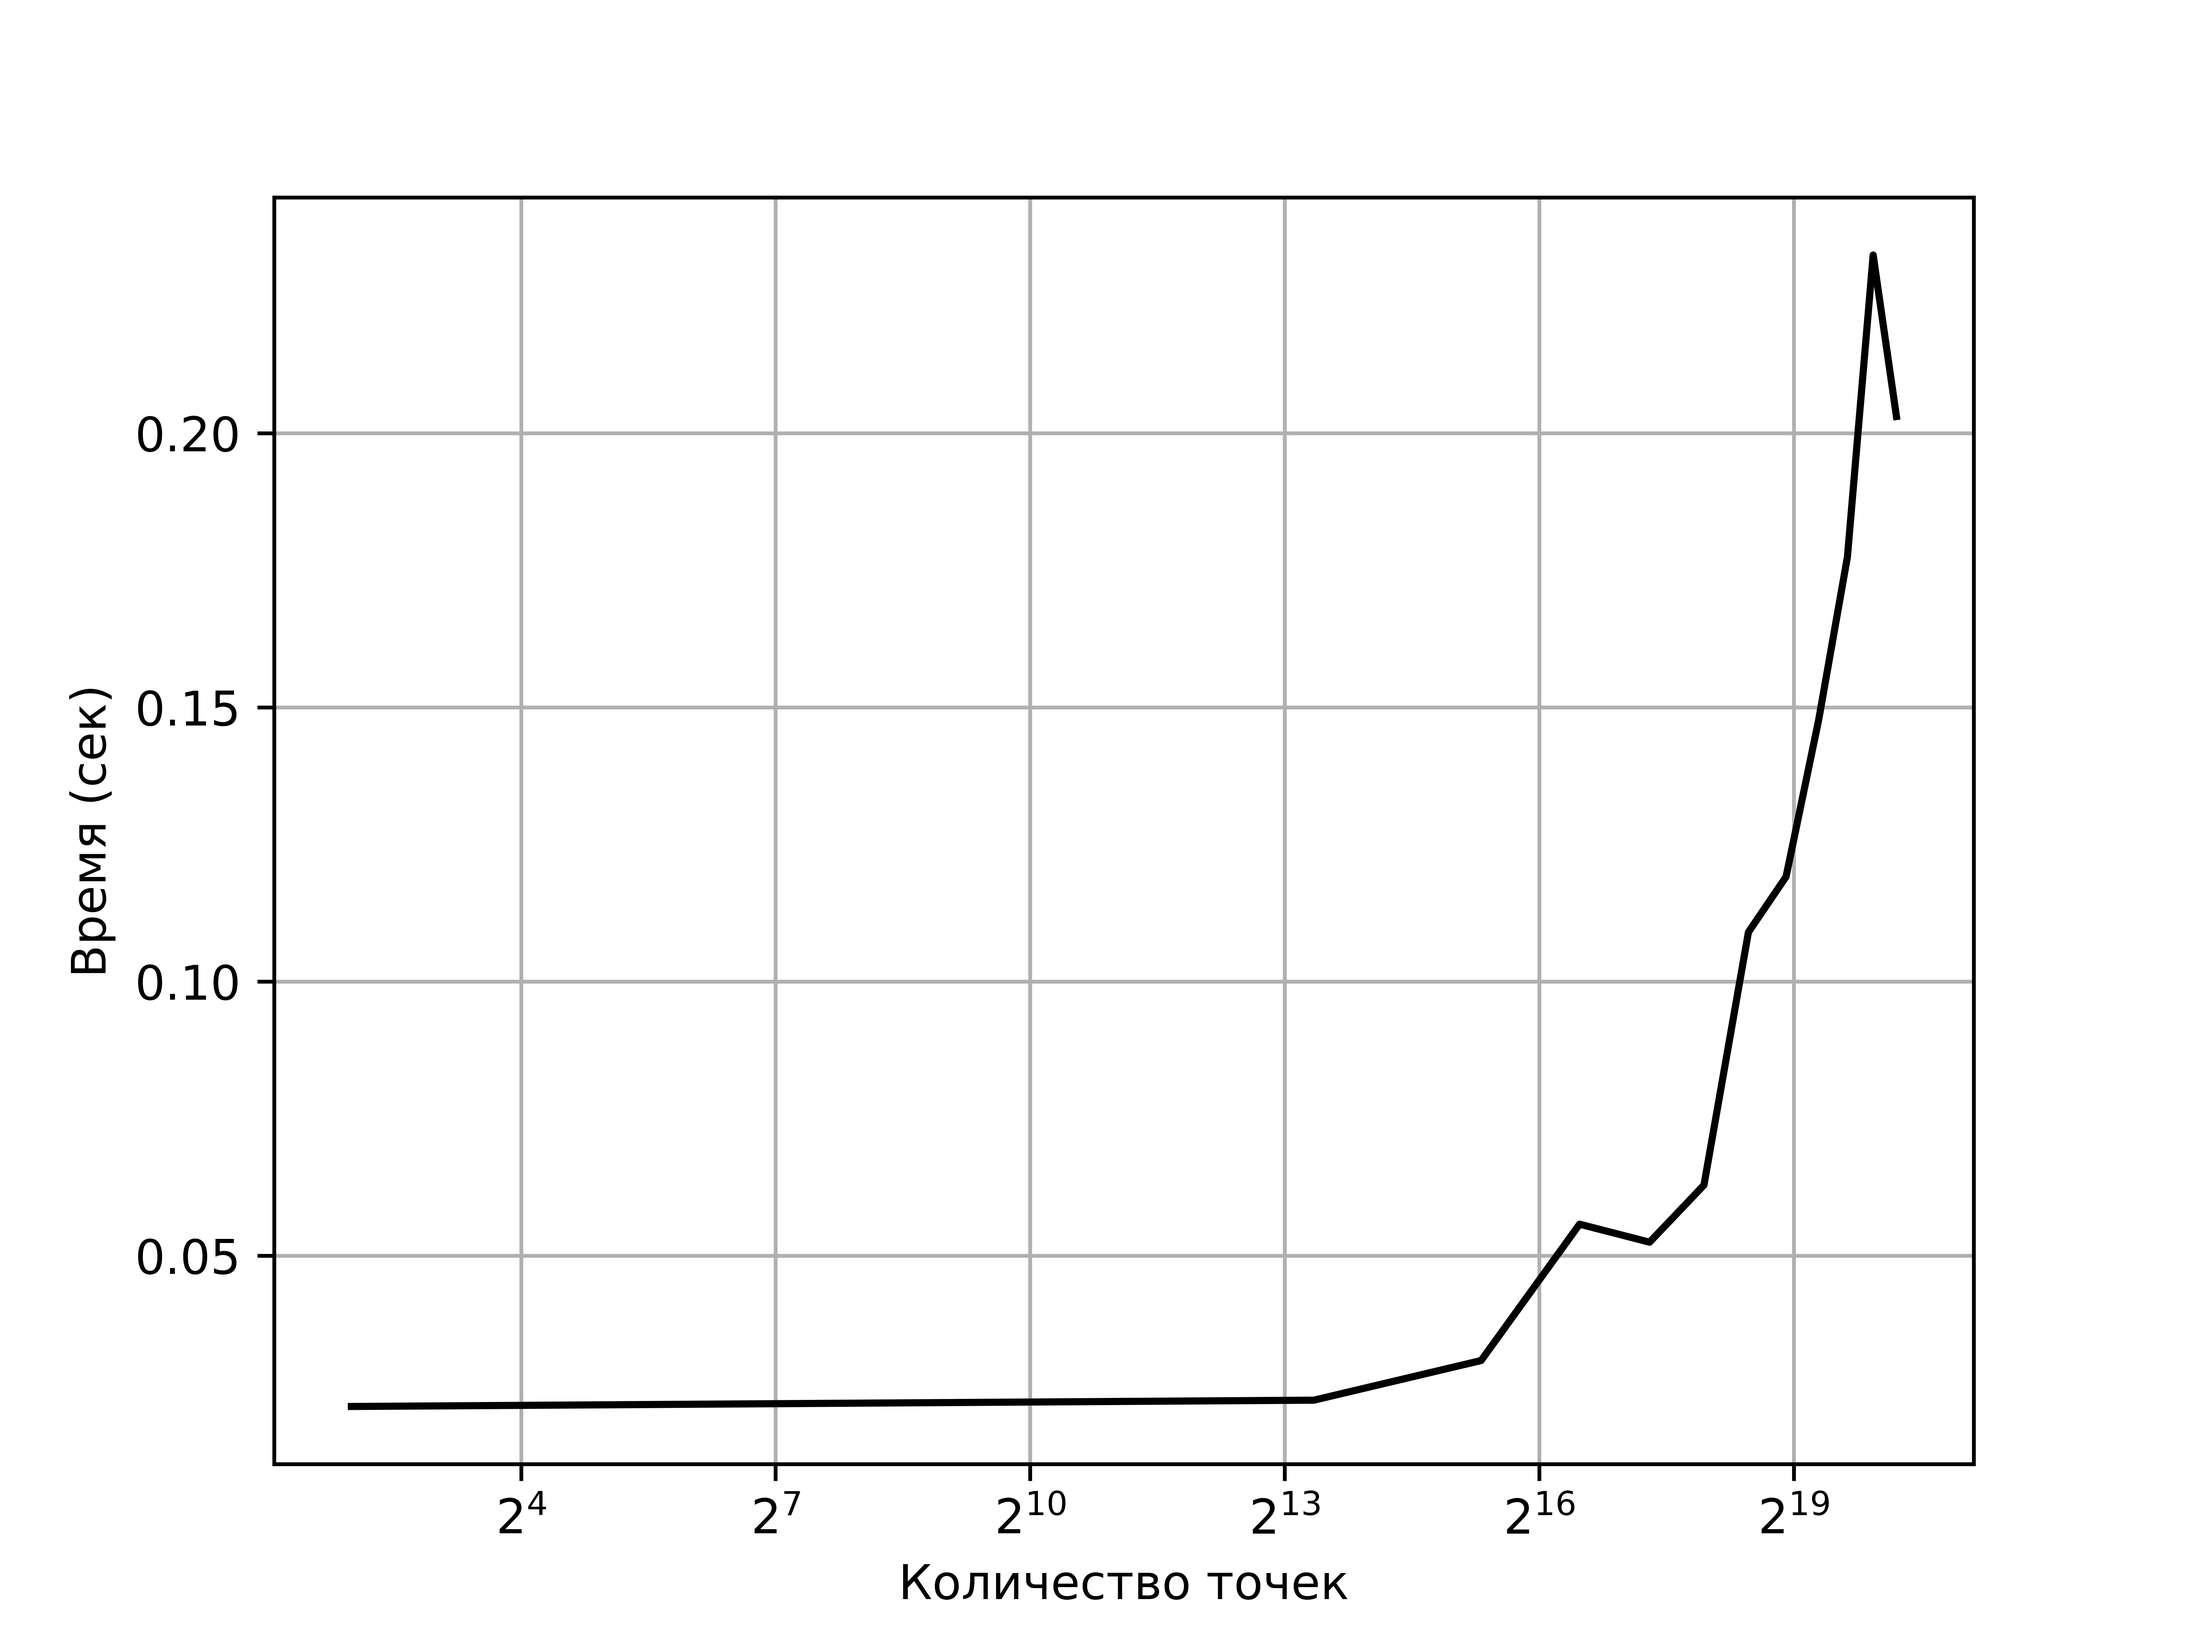
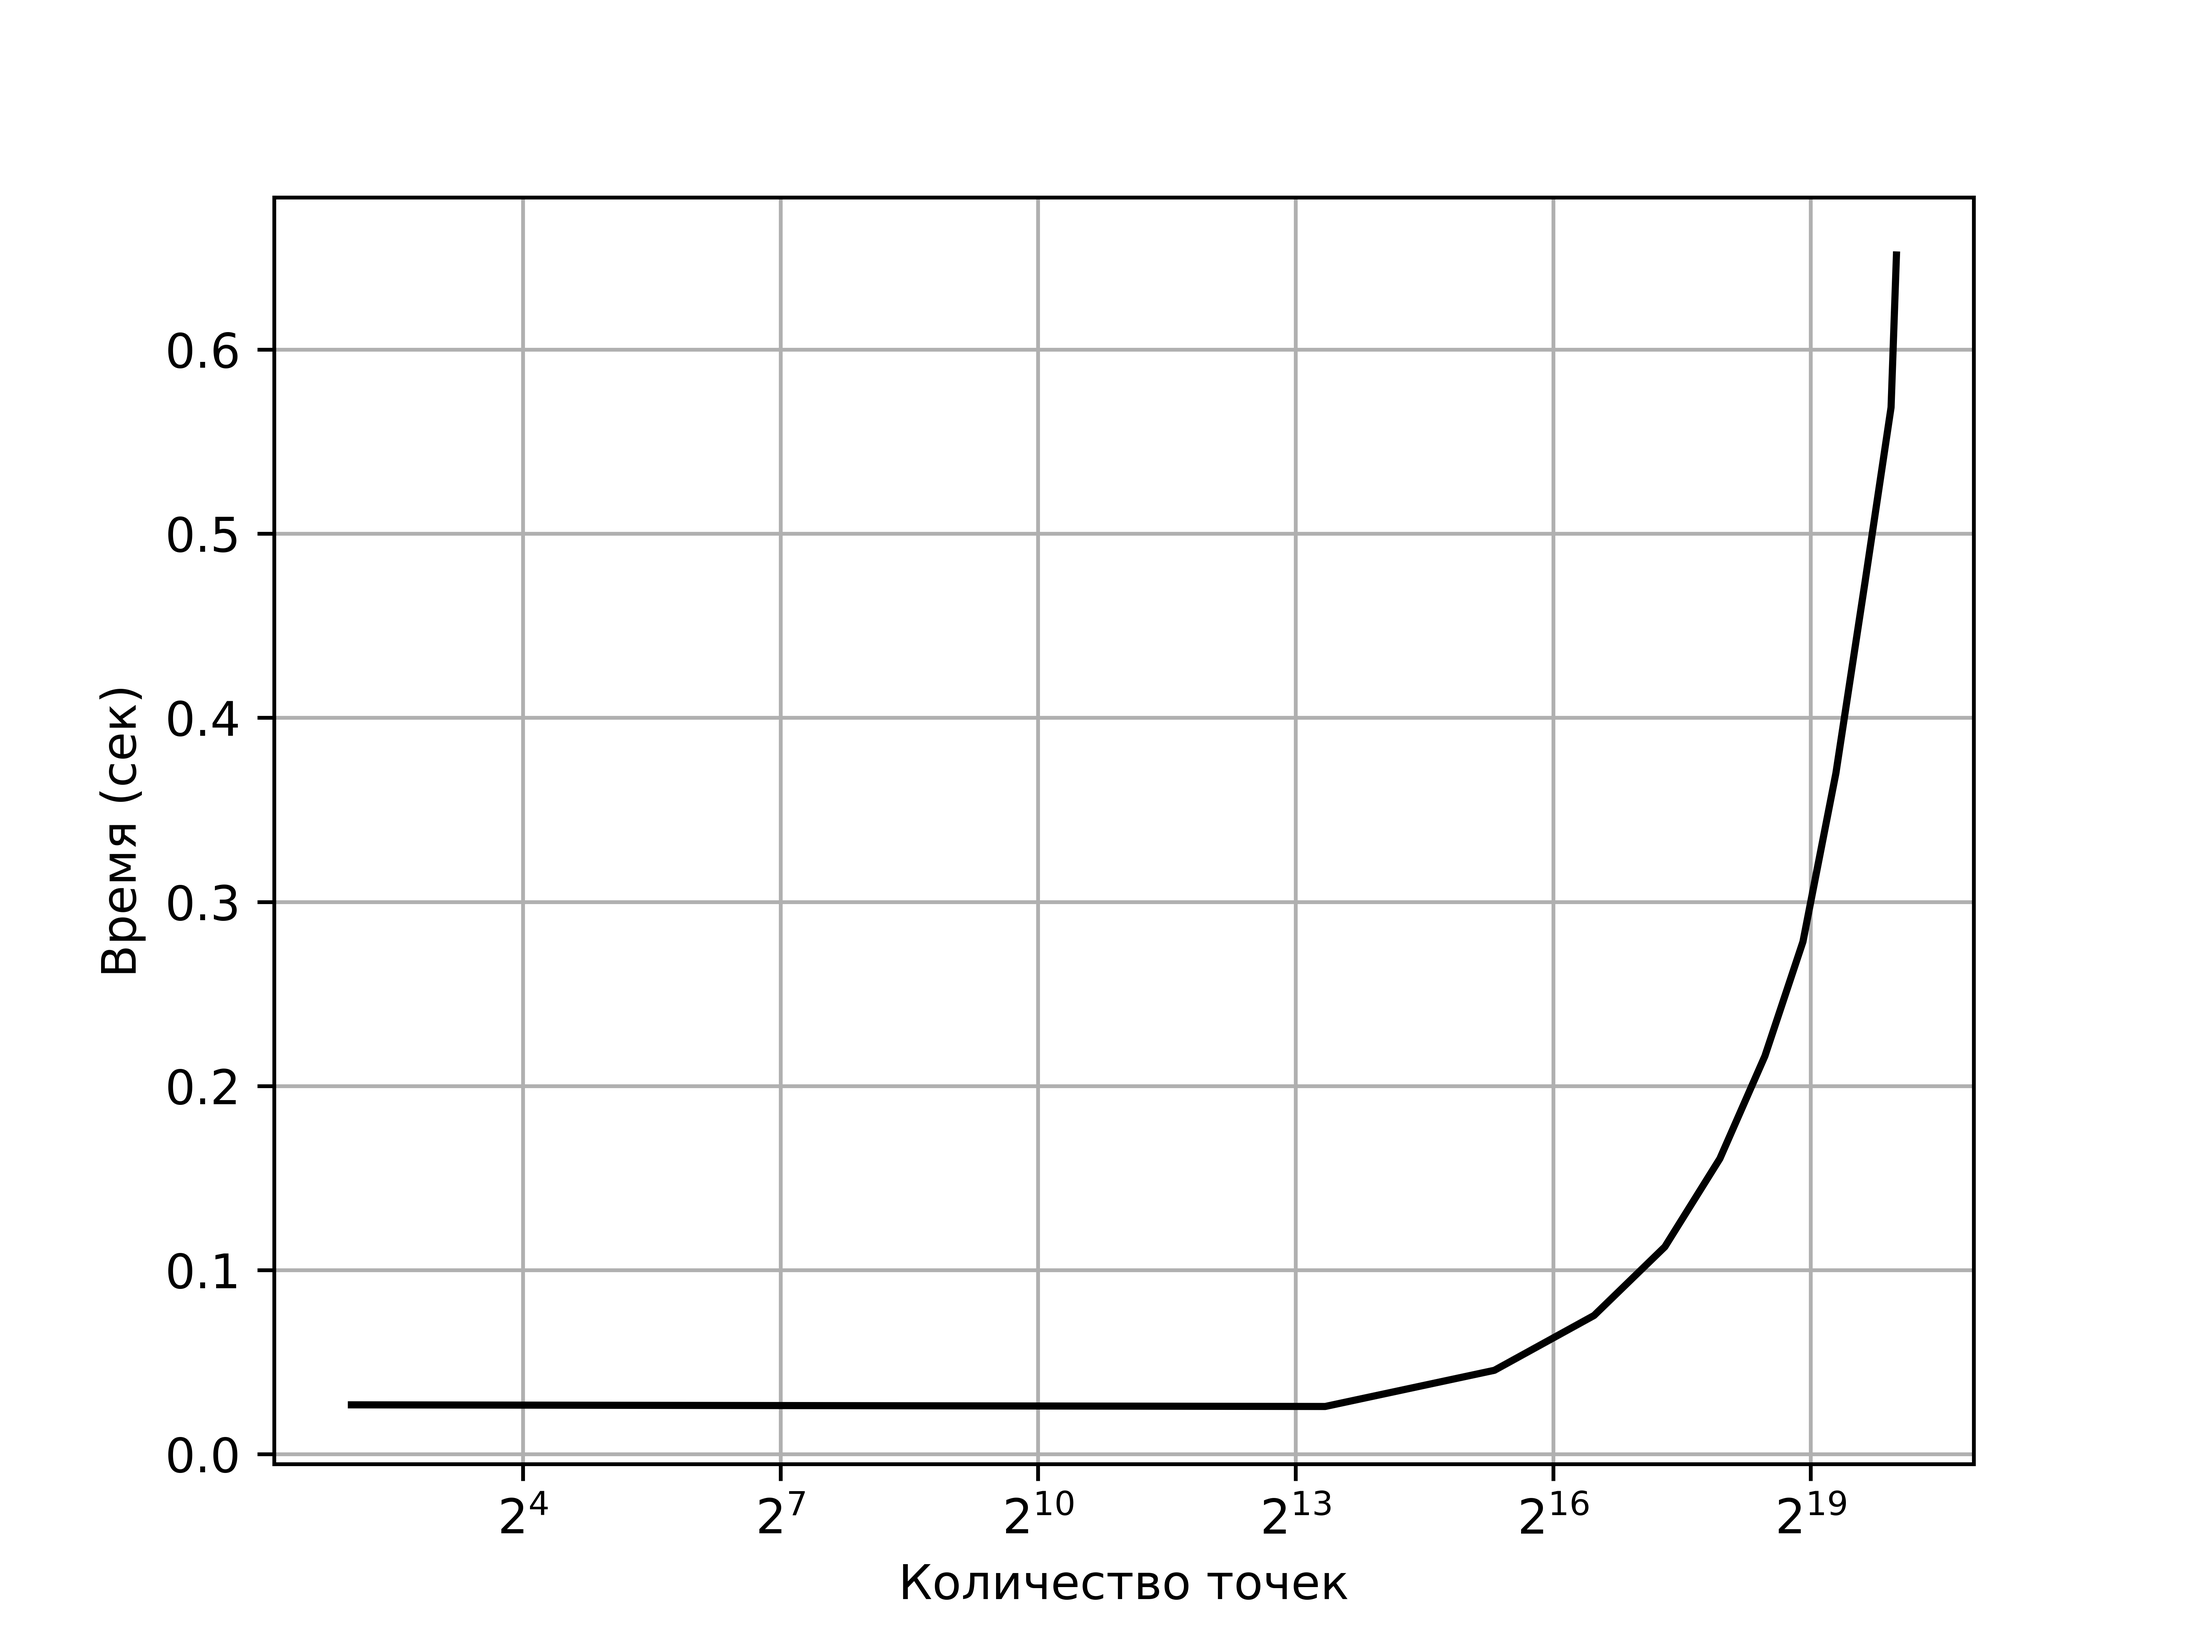
final

diff --git a/table_worker_k_diff.py b/table_worker_k_diff.py
@@ -16,7 +16,32 @@ from scipy.interpolate import make_interp_spline
 
 
 path = "/home/remini/learning/diplom_diff_k"
-res = []
+res11 = []
+for filename in os.listdir(path):
+    if re.match("table_nera*", filename):
+        filename_s = filename.split("_")
+        # print(filename_s[1][2:])
+        if not(int(filename_s[2][2:]) == 1 and int(filename_s[3][2:]) == 1):
+            continue
+        k = float(filename_s[5].split(".csv")[0][1:])
+        if k >= 0.055253796026246194:
+            continue
+        with open(os.path.join(path, filename), 'r') as f:
+            print(filename)
+            reader = csv.reader(f, delimiter=',', quotechar=',', quoting=csv.QUOTE_MINIMAL)
+            d_arr = []
+            for row in reader:
+                print(row)
+                if re.match("omega*", row[0]):
+                    continue
+                else:
+                    d_arr.append(float(row[10]))
+            maxx = max(d_arr)
+            minn = min(d_arr)
+            koeff = (maxx - minn) / maxx
+            res11.append([koeff, k])
+
+res12 = []
 for filename in os.listdir(path):
     if re.match("table_nera*", filename):
         filename_s = filename.split("_")
@@ -39,22 +64,68 @@ for filename in os.listdir(path):
             maxx = max(d_arr)
             minn = min(d_arr)
             koeff = (maxx - minn) / maxx
-            res.append([koeff, k])
+            res12.append([koeff, k])
 
-res.sort(key=lambda x: x[0])
+res1523 = []
+for filename in os.listdir(path):
+    if re.match("table_nera*", filename):
+        filename_s = filename.split("_")
+        # print(filename_s[1][2:])
+        if not(int(filename_s[2][2:]) == 15 and int(filename_s[3][2:]) == 23):
+            continue
+        k = float(filename_s[5].split(".csv")[0][1:])
+        if k >= 0.055253796026246194:
+            continue
+        with open(os.path.join(path, filename), 'r') as f:
+            print(filename)
+            reader = csv.reader(f, delimiter=',', quotechar=',', quoting=csv.QUOTE_MINIMAL)
+            d_arr = []
+            for row in reader:
+                print(row)
+                if re.match("omega*", row[0]):
+                    continue
+                else:
+                    d_arr.append(float(row[10]))
+            maxx = max(d_arr)
+            minn = min(d_arr)
+            koeff = (maxx - minn) / maxx
+            res1523.append([koeff, k])
 
-print(res)
+
+res11.sort(key=lambda x: x[0])
+res12.sort(key=lambda x: x[0])
+res1523.sort(key=lambda x: x[0])
+
+
+# print(res)
 
 x = []
 y = []
+
+x2 = []
+y2 = []
+
+x3 = []
+y3 = []
 # x_tick = np.array([])
 
-for elem in res:
+for elem in res11:
     #if Fraction(elem[0]).limit_denominator() not in x_tick:
         # x_tick = np.append(x_tick, Fraction(elem[0]).limit_denominator())
-
     x.append(elem[1])
     y.append(elem[0])
+
+for elem in res12:
+    #if Fraction(elem[0]).limit_denominator() not in x_tick:
+        # x_tick = np.append(x_tick, Fraction(elem[0]).limit_denominator())
+    x2.append(elem[1])
+    y2.append(elem[0])
+
+for elem in res1523:
+    #if Fraction(elem[0]).limit_denominator() not in x_tick:
+        # x_tick = np.append(x_tick, Fraction(elem[0]).limit_denominator())
+    x3.append(elem[1])
+    y3.append(elem[0])
 
 
 # f = interp1d(x, y, kind='quadratic')
@@ -69,27 +140,32 @@ Y_ = X_Y_Spline(X_)
 # max and min
 
 print("Maximals")
-maxes_i = sorted(range(len(y)), key=lambda i: y[i])[-10:]
+maxes_i = sorted(range(len(y3)), key=lambda i: y3[i])[-10:]
 print(maxes_i)
 for elem in maxes_i:
-    print(x[elem], y[elem])
+    print(x3[elem], y3[elem])
 
 print("Minimals")
-min_i = sorted(range(len(y)), key=lambda i: y[i])[:10]
+min_i = sorted(range(len(y3)), key=lambda i: y3[i])[:10]
 print(min_i)
 for elem in min_i:
-    print(x[elem], y[elem])
+    print(x3[elem], y3[elem])
 
 
 # plt.plot(np.arange(0, len(xnew), 1), f(xnew))
 # plt.xticks(np.arange(0, len(xnew), step), np.unique(x_tick))
 # plt.plot(np.arange(0, len(np.unique(x_tick)), 1), )
 # plt.xticks(np.arange(0, len(np.unique(x_tick)), 1), np.unique(x_tick))
-plt.plot(x, y, c="black")
+plt.plot(x, y, c="black", label="1/1")
+plt.plot(x2, y2, '--', c="black", label="1/2")
+plt.plot(x3, y3, '-.', c="black", label="15/23")
+plt.legend(loc='upper left')
+# plt.yscale("log", base=10)
 plt.grid(True)
 # plt.scatter(x, y)
 # plt.xticks(np.unique(x_tick), np.unique(x_tick), rotation=45)
-plt.xlabel("Степень рассеяния")
+# plt.set
+plt.xlabel("Коэффициент рассеяния")
 plt.ylabel("Неоднородность по поверхности образца")
-plt.savefig(f'{path}/res1_2.png', dpi=1000)
+plt.savefig(f'{path}/res1_1.png')
 plt.show()

diff --git a/gui.py b/gui.py
@@ -61,11 +61,11 @@ def start(
     height_sh
 ):
 
-    if not (0 <= rad_b <= 99):
-        messagebox.showerror("Ошибка", "Введено недопустимое значение радиуса барабана. Допустимые значения:0-99")
+    if not (0 <= rad_b <= 100):
+        messagebox.showerror("Ошибка", "Введено недопустимое значение радиуса барабана. Допустимые значения:(0,100]")
         return
-    elif not(0 <= rad_o <= 99):
-        messagebox.showerror("Ошибка", "Введено недопустимое значение радиуса образца. Допустимые значения:0-99")
+    elif not(0 <= rad_o <= 100):
+        messagebox.showerror("Ошибка", "Введено недопустимое значение радиуса образца. Допустимые значения:(0,100]")
         return
     elif not(rad_o + rad_b < m_distance):
         messagebox.showerror("Ошибка", "Введено недопустимое значение радиуса барабана. Радиус образца и радиус барабана в сумме не должны превышать расстояние до мишени")
@@ -116,6 +116,9 @@ def start(
     if not (enabled_sh):
         rad_sh = 0
         height_sh = 0
+    else:
+        rad_sh = m_width / 4
+        height_sh = m_height / 4
 
     exit_flag.clear()
     print(time_step)
@@ -329,16 +332,16 @@ if __name__ == "__main__":
 
     labelTextMishEnableVnutr = tk.BooleanVar()
     labelTextMishEnableVnutr.set(False)
-    labelMishEnableVnutr = tk.Checkbutton(labelframeMish, text="Штука", variable=labelTextMishEnableVnutr, height=1, command=lambda: disable_shtuka(labelTextMishEnableVnutr, entryMishRadVnutr, entryMishHeightVnutr))
+    labelMishEnableVnutr = tk.Checkbutton(labelframeMish, text="Реалистичная", variable=labelTextMishEnableVnutr, height=1, command=lambda: disable_shtuka(labelTextMishEnableVnutr, entryMishRadVnutr, entryMishHeightVnutr))
     labelMishEnableVnutr.pack(side="top", anchor="nw", expand=True)
-    labelMishRadVnutr.pack(side="top", anchor="nw", expand=True)
-    entryMishRadVnutr.pack(side="top", anchor="nw", expand=True)
-    labelMishHeightVnutr.pack(side="top", anchor="nw", expand=True)
-    entryMishHeightVnutr.pack(side="top", anchor="nw", expand=True)
+    # labelMishRadVnutr.pack(side="top", anchor="nw", expand=True)
+    # entryMishRadVnutr.pack(side="top", anchor="nw", expand=True)
+    # labelMishHeightVnutr.pack(side="top", anchor="nw", expand=True)
+    # entryMishHeightVnutr.pack(side="top", anchor="nw", expand=True)
 
     # inside labelframeSred
     labelTextSredK = tk.StringVar()
-    labelTextSredK.set("Коэффициент затенения")
+    labelTextSredK.set("Коэффициент рассеяния")
     labelSredK = tk.Label(labelframeSred, textvariable=labelTextSredK, height=1)
     labelSredK.pack(side="top", anchor="nw", expand=True)
 
@@ -384,7 +387,7 @@ if __name__ == "__main__":
     labelTime.pack(side="top", anchor="nw", expand=True)
 
     entryTextTime = tk.IntVar()
-    entryTextTime.set(1)
+    entryTextTime.set(60)
     entryTime = tk.Entry(labelframeMM, text=entryTextTime)
     entryTime.pack(side="top", anchor="nw", expand=True)
 
@@ -439,5 +442,5 @@ if __name__ == "__main__":
         ),
     ).grid(row=0, column=0)
     tk.Button(frameSS, text="Стоп", command=lambda: stop(framesToDisable)).grid(row=0, column=1)
-    logging.basicConfig(stream=sys.stdout, level=logging.DEBUG)
+    # logging.basicConfig(stream=sys.stdout, level=logging.DEBUG)
     root.mainloop()

diff --git a/issled.py b/issled.py
@@ -288,14 +288,20 @@ def issled_integr(func, a1, b1, a2, b2, nx, ny, real_val):
 
 def issled_integr_diff_nx_ny(func, a1, b1, a2, b2, real_val):
     points = 2
+    usred = 0
     while points * points <= 1048576:
-        res = issled_integr(func, a1, b1, a2, b2, points, points, real_val)
+        usred = 0
+        for k in range(0, 10):
+            res = issled_integr(func, a1, b1, a2, b2, points, points, real_val)
+            usred = usred + res[2]
+        usred = usred / 10
+        res[2] = usred
         res.append(points * points)
         points = points + 100
         print(res)
 
     res = issled_integr(func, a1, b1, a2, b2, 1024, 1024, real_val)
-    res.append(points * points)
+    res.append(1024 * 1024)
     print(res)
 
 if __name__ == "__main__":

diff --git a/graph_tochn_time_dots.py b/graph_tochn_time_dots.py
@@ -54,7 +54,7 @@ X_Y_Spline = make_interp_spline(x, y)
 
 # Returns evenly spaced numbers
 # over a specified interval.
-X_ = np.linspace(min(x), max(x), 80)
+X_ = np.linspace(min(x), max(x), 100)
 Y_ = X_Y_Spline(X_)
 
 # # plt.plot(np.arange(0, len(xnew), 1), f(xnew))
